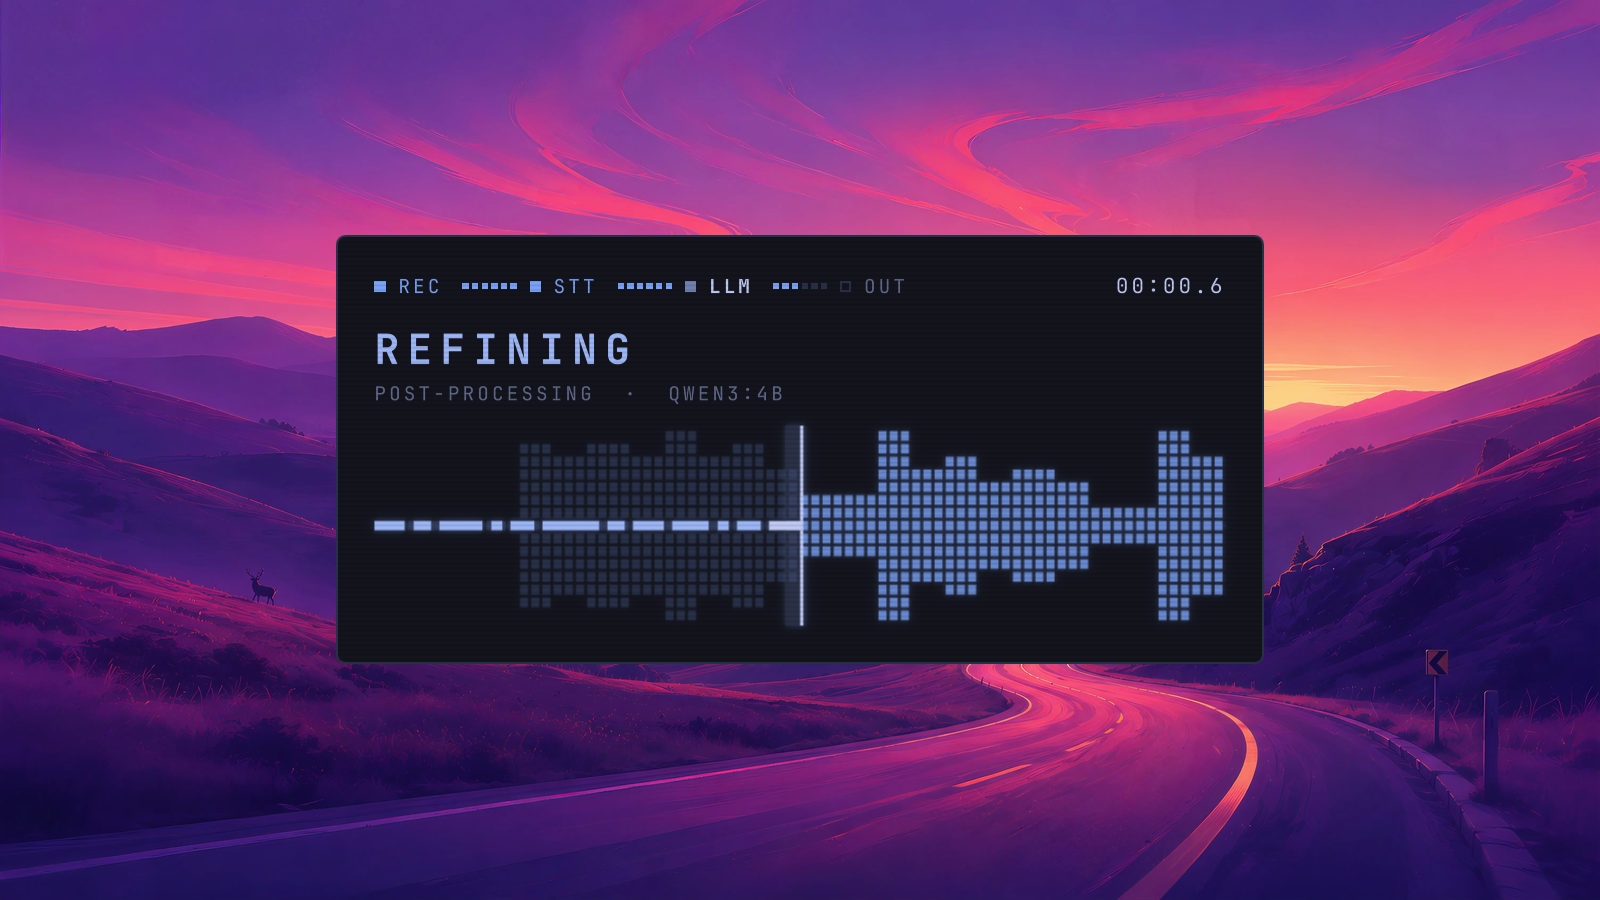
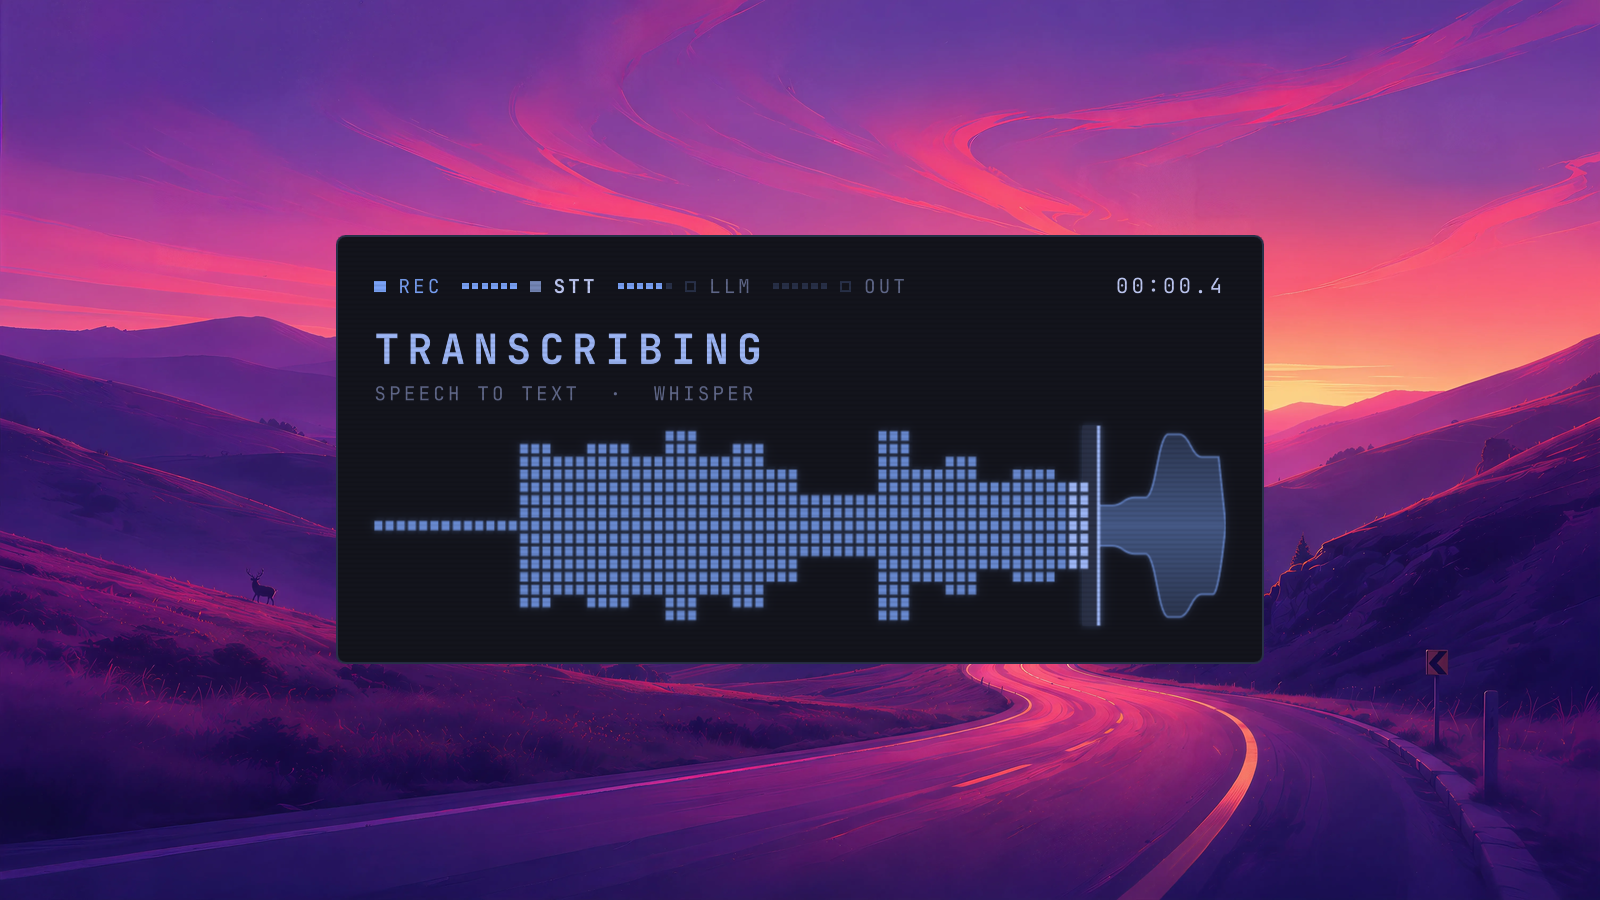
Use a mid-transcription frame as the hero
The hero now shows the speech-to-text scan four tenths of a second in:
the soft envelope of the recording ahead of the scan line turning into
cells behind it, which reads better at thumbnail size than the LLM
scan. The demo scenario grabs the hero at that moment, so capture.sh
reproduces it.

diff --git a/tests/harness/shell.qml b/tests/harness/shell.qml
@@ -369,13 +369,14 @@ ShellRoot {
         ],
         // One unhurried dictation for the publishing assets: a spoken
         // sentence from fake-cava.py, an STT scan long enough to watch, and a "hero"
-        // frame of the window in the middle of the LLM scan.
+        // frame of the window in the middle of the STT scan, where the soft
+        // envelope ahead of the scan line turns into cells behind it.
         demo: [
             [0, "state", "recording"],
             [3000, "state", "transcribing"],
+            [3400, "window", "hero"],
             [3700, "pp", "start"],
             [3740, "pp", "llm"],
-            [4500, "window", "hero"],
             [4900, "pp", "done"],
             [5500, "state", "idle"],
             [7500, "quit", ""]
